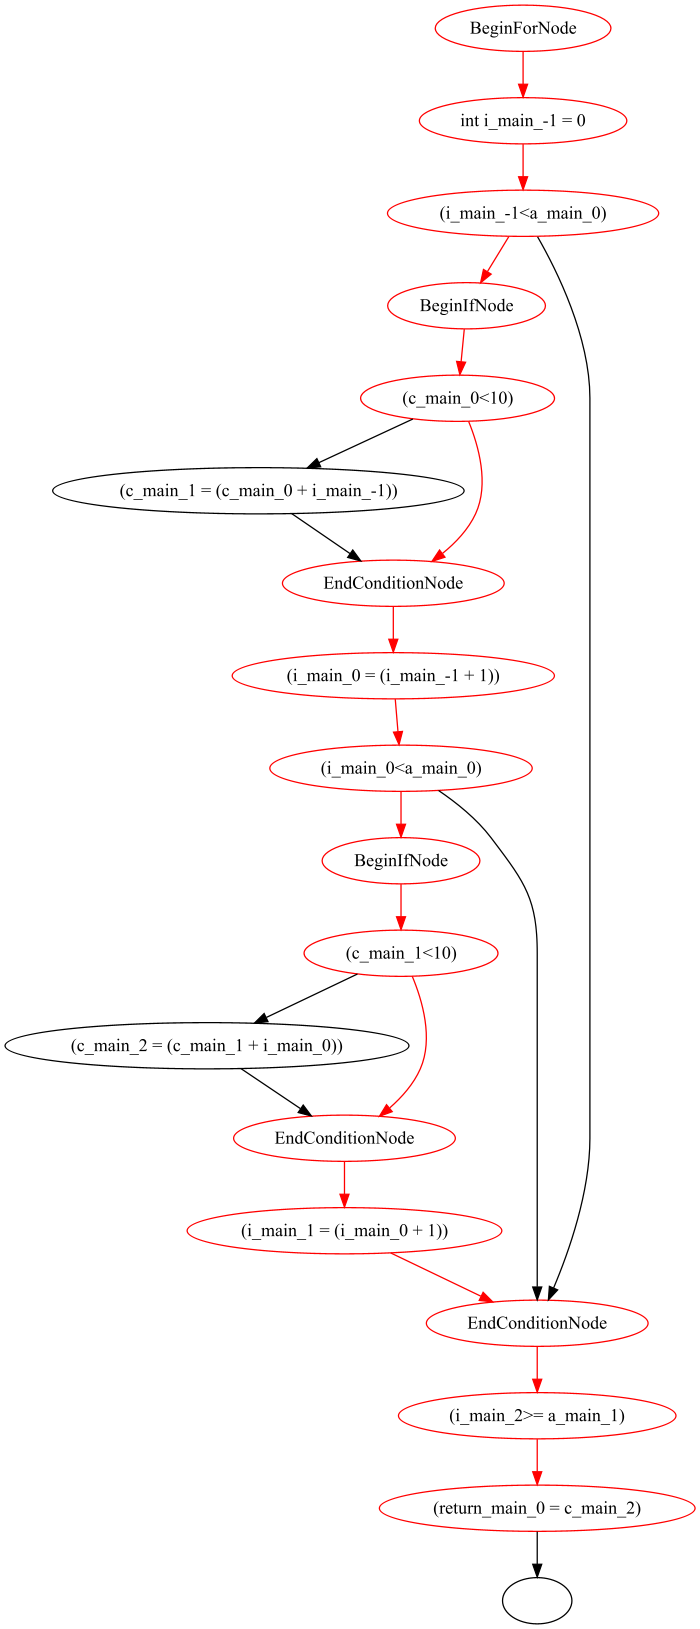
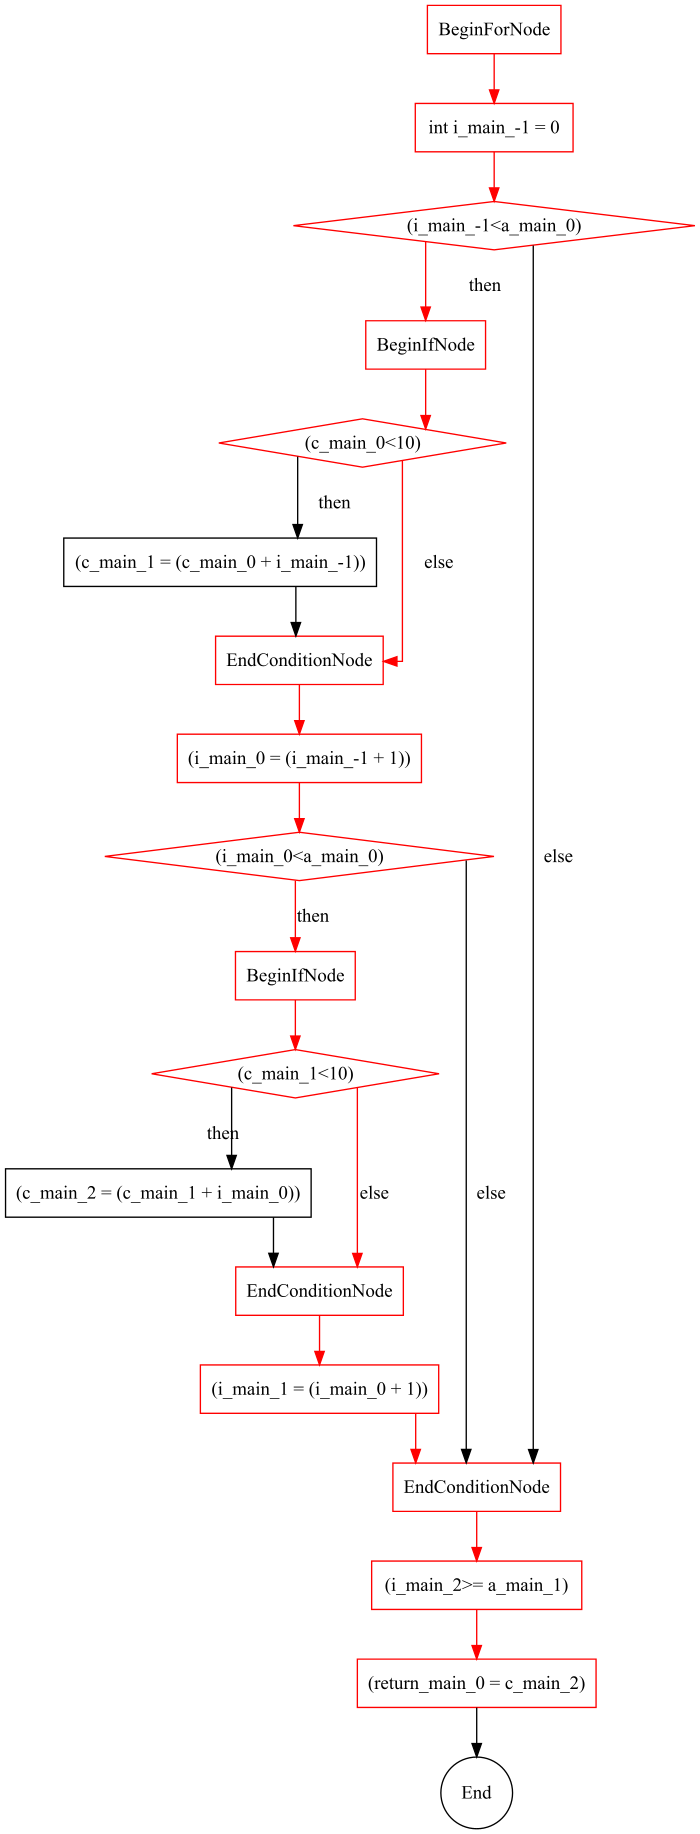
change style of graph

diff --git a/src/main/java/com/vtse/graph/GraphGenerator.java b/src/main/java/com/vtse/graph/GraphGenerator.java
@@ -55,30 +55,36 @@ public class GraphGenerator {
         } else {
             label = node.toString();
         }
-        this.write("\"" + node.toString() + node.hashCode() + "\"" + " [ label=\"" + label + "\"]");
+        this.write("\"" + node.toString() + node.hashCode() + "\"" + " [ label=\"" + label + "\" shape=rectangle]");
         this.write(";\n");
+        if(node instanceof DecisionNode){
+            this.write("\"" + node.toString() + node.hashCode() + "\"" + " [ shape=diamond ]");
+            this.write(";\n");
+        } else if (node instanceof EndFunctionNode){
+            this.write("\"" + node.toString() + node.hashCode() + "\"" + " [ label= \"End\" shape=circle]");
+            this.write(";\n");
+        }
     }
     public void writeDirected(String a, String b) throws IOException {
         this.write("\"" + a + "\"" + " -> " + "\"" + b + "\"" );
         this.write(";\n");
     }
     public CFGNode writeTwoNode(CFGNode a, CFGNode b) throws IOException{
-//        if(a instanceof EmptyNode){
-//            return null;
-//        }
         if(a == null){
             return null;
         }
         if(b == null){
             return null;
         }
-//        while(b instanceof EmptyNode){
-//            b = b.getNext();
-//        }
         this.writeDirected(a.toString() + a.hashCode(), b.toString() + b.hashCode());
         this.writeLabel(a);
         this.writeLabel(b);
         return b;
+    }
+    public void writeDecisionNode(CFGNode decisionNode, CFGNode nextNode, String path) throws IOException {
+        this.write("\"" + decisionNode.toString() + decisionNode.hashCode() + "\"" + " -> " + "\"" + nextNode.toString() + nextNode.hashCode() + "\"" );
+        this.write("[ label=\"" + path + "\" ]");
+        this.write(";\n");
     }
     public void fillColor(List<CFGNode> nodes, Boolean isClose) throws IOException {
         if(!nodes.isEmpty()){
@@ -101,13 +107,6 @@ public class GraphGenerator {
                 this.write(";\n");
             }
         }
-
-//        for(int i=0;i<nodes.size()-1;i++){
-//            CFGNode a = nodes.get(i);
-//            CFGNode b = nodes.get(i+1);
-//            this.write("\"" + a.toString() + a.hashCode() + "\"" + " -> " + "\"" + b.toString() + b.hashCode() + "\"" + " [ color=\"red\"]" );
-//            this.write(";\n");
-//        }
         if(isClose){
             this.writeEnd();
         }
@@ -149,14 +148,14 @@ public class GraphGenerator {
         CFGNode endOfElse = decisionNode.getEndOfElse();
 
         if(thenNode != null){
-            this.writeTwoNode(decisionNode, thenNode);
+            this.writeDecisionNode(decisionNode, thenNode, "then");
             if(this.debug){
                 System.out.println("\"" + decisionNode.toString() + "\"" + "->" + "\"" + thenNode.toString() + "\"");
             }
         }
 //        if( elseNode != null){
         if( elseNode != null && !(elseNode instanceof EmptyNode)){
-            this.writeTwoNode(decisionNode, elseNode);
+            this.writeDecisionNode(decisionNode, elseNode, "else");
             if(this.debug){
                 System.out.println("\"" + decisionNode.toString() + "\"" + "->" + "\"" + elseNode.toString() + "\"");
             }
@@ -166,7 +165,7 @@ public class GraphGenerator {
         this.print(thenNode, endOfThen);
         this.print(endOfThen, endConditionNode);
         if(elseNode instanceof EmptyNode){
-            this.writeTwoNode(decisionNode, endConditionNode);
+            this.writeDecisionNode(decisionNode, endConditionNode, "else");
         } else {
             this.print(elseNode, endOfElse);
             this.print(endOfElse, endConditionNode);

diff --git a/src/main/java/com/vtse/test/Test.java b/src/main/java/com/vtse/test/Test.java
@@ -49,26 +49,26 @@ public class Test {
 
 	public static void  main(String[] args) throws IOException {
 //		FileVerification fileVerification = new FileVerification();
-//		fileVerification.verify(new File("./src/main/resources/benchmark/example/example_7.c"), FunctionVerification.UNFOLD_MODE);
-		ASTFactory ast = new ASTFactory("./src/main/resources/benchmark/example/graph.c");
-		IASTFunctionDefinition main_func = ast.getFunction("main");
-		System.out.println(main_func.toString());
-		VtseCFG cfg = new VtseCFG(ast.getFunction("main"), ast);
-		cfg.unfold(2);
-		cfg.index();
-//		String pre_condition = "a = 5";
-		String pre_condition = "";
-		String post_condition = "return > 20";
-		int nLoops = 2;
-		int mode = FunctionVerification.UNFOLD_MODE;
-		VerificationReport vr = FunctionVerification.verify(ast, main_func, pre_condition, post_condition, nLoops, mode);
-		PathExecutionVisualize pathExecutionVisualize = new PathExecutionVisualize(cfg, vr);
-		List<CFGNode> nodes = pathExecutionVisualize.findPathToFail();
-//		System.out.println(formulas.size());
-//		PathExecutionVisualize.print(formulas);
-        GraphGenerator graphGenerator = new GraphGenerator(cfg);
-        graphGenerator.printGraph(false);
-        graphGenerator.fillColor(nodes, true);
+////		fileVerification.verify(new File("./src/main/resources/benchmark/example/example_7.c"), FunctionVerification.UNFOLD_MODE);
+//		ASTFactory ast = new ASTFactory("./src/main/resources/benchmark/example/graph.c");
+//		IASTFunctionDefinition main_func = ast.getFunction("main");
+//		System.out.println(main_func.toString());
+//		VtseCFG cfg = new VtseCFG(ast.getFunction("main"), ast);
+//		cfg.unfold(2);
+//		cfg.index();
+////		String pre_condition = "a = 5";
+//		String pre_condition = "";
+//		String post_condition = "return > 20";
+//		int nLoops = 2;
+//		int mode = FunctionVerification.UNFOLD_MODE;
+//		VerificationReport vr = FunctionVerification.verify(ast, main_func, pre_condition, post_condition, nLoops, mode);
+//		PathExecutionVisualize pathExecutionVisualize = new PathExecutionVisualize(cfg, vr);
+//		List<CFGNode> nodes = pathExecutionVisualize.findPathToFail();
+////		System.out.println(formulas.size());
+////		PathExecutionVisualize.print(formulas);
+//        GraphGenerator graphGenerator = new GraphGenerator(cfg);
+//        graphGenerator.printGraph(false);
+//        graphGenerator.fillColor(nodes, true);
 		try {
 			File file = new File("./graph.dot");
 			InputStream dot = new FileInputStream(file);
